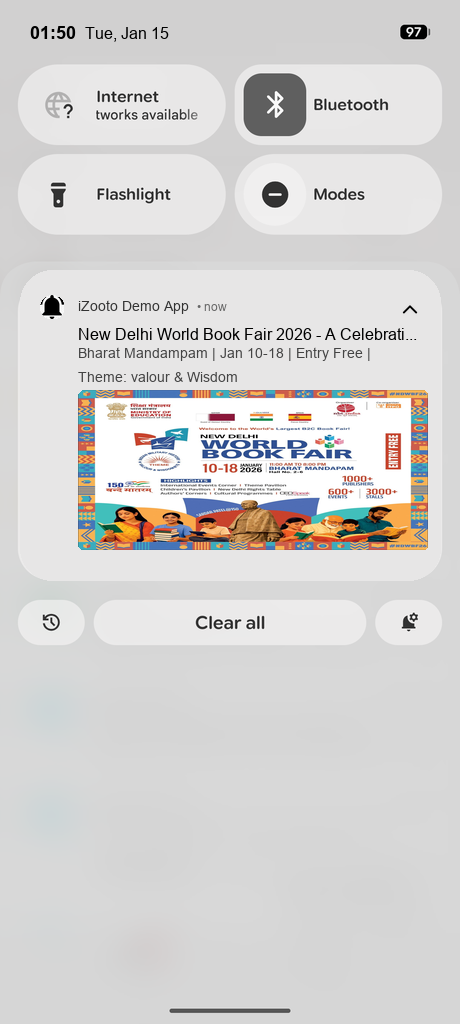
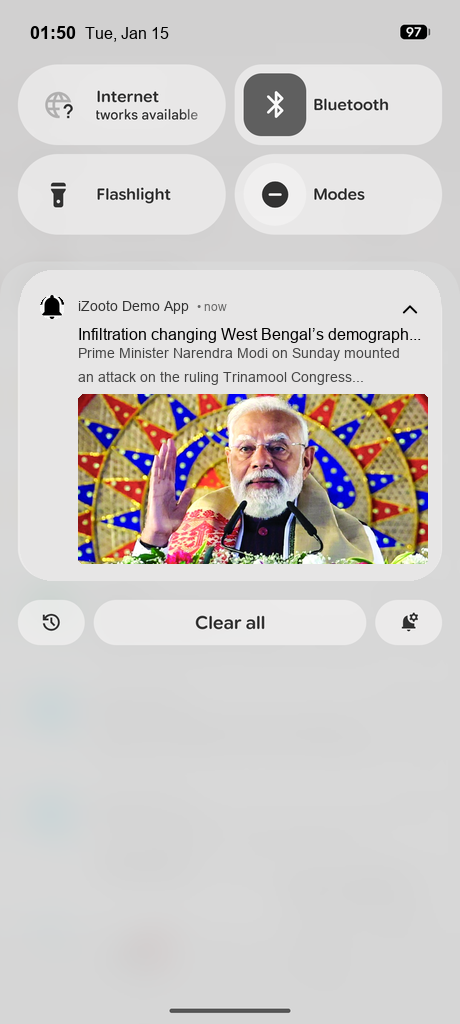
image positioning fix

Changed region(s): [[0.1522, 0.3125, 0.9435, 0.5625]]

diff --git a/generateSS.py b/generateSS.py
@@ -1,7 +1,7 @@
 import os
 import json
 import sys
-from PIL import Image, ImageDraw, ImageFont
+from PIL import Image, ImageDraw, ImageFont, ImageOps
 
 class ImageGenerator:
     def __init__(self, config_path):
@@ -161,9 +161,9 @@ class ImageGenerator:
             elif etype == 'banner':
                 path = data.get(f"{eid}_path", cfg.get('path'))
                 if path:
-                    w = cfg['size'][0]
-                    h = cfg['size'][1]
-                    layouts['banner'][eid] = {'pos': pos, 'path': path}
+                    # Use fixed dimensions from config for aspect-fill crop
+                    w, h = cfg['size']
+                    layouts['banner'][eid] = {'pos': pos, 'path': path, 'size': [w, h]}
             
             elif etype == 'text':
                 content = data.get(eid, cfg.get('content', ""))
@@ -258,7 +258,12 @@ class ImageGenerator:
                 cfg = template['banners'][bid]
                 if not layout['path']: continue
                 try:
-                    banner = Image.open(layout['path']).convert('RGBA').resize(tuple(cfg['size']), Image.Resampling.LANCZOS)
+                    # Use ImageOps.fit to crop and scale while preserving aspect ratio
+                    banner = ImageOps.fit(
+                        Image.open(layout['path']).convert('RGBA'),
+                        tuple(layout['size']),
+                        method=Image.Resampling.LANCZOS
+                    )
                     if cfg.get('radius', 0) > 0:
                         mask = Image.new('L', banner.size, 0)
                         mask_draw = ImageDraw.Draw(mask)

diff --git a/generate_all.py b/generate_all.py
@@ -8,11 +8,11 @@ SCRIPT_NAME = "generateSS.py"
 
 # Common Data
 DATE_TIME = "Tue, Jan 15, 01:50"
-TITLE = "New Delhi World Book Fair 2026 - A Celebration of Literature, Culture, and History across the Ages"
-BASE_DESCRIPTION = "Bharat Mandampam | Jan 10-18 | Entry Free | Theme: valour & Wisdom"
+TITLE = "Infiltration changing West Bengal’s demography: PM"
+BASE_DESCRIPTION = "Prime Minister Narendra Modi on Sunday mounted an attack on the ruling Trinamool Congress Government in West Bengal with"
 APP_NAME = "iZooto Demo App"
 ICON_FILE = "assets/icons/bell-icon.png" 
-BANNER_FILE = "assets/banners/World-Book-Fair-2026-1536x1536-1.jpg"
+BANNER_FILE = "assets/banners/infiltration-changing-west-bengal---s-demography--pm-2026-01-19.jpg"
 
 def run_gen(tid, description_suffix=""):
     """
